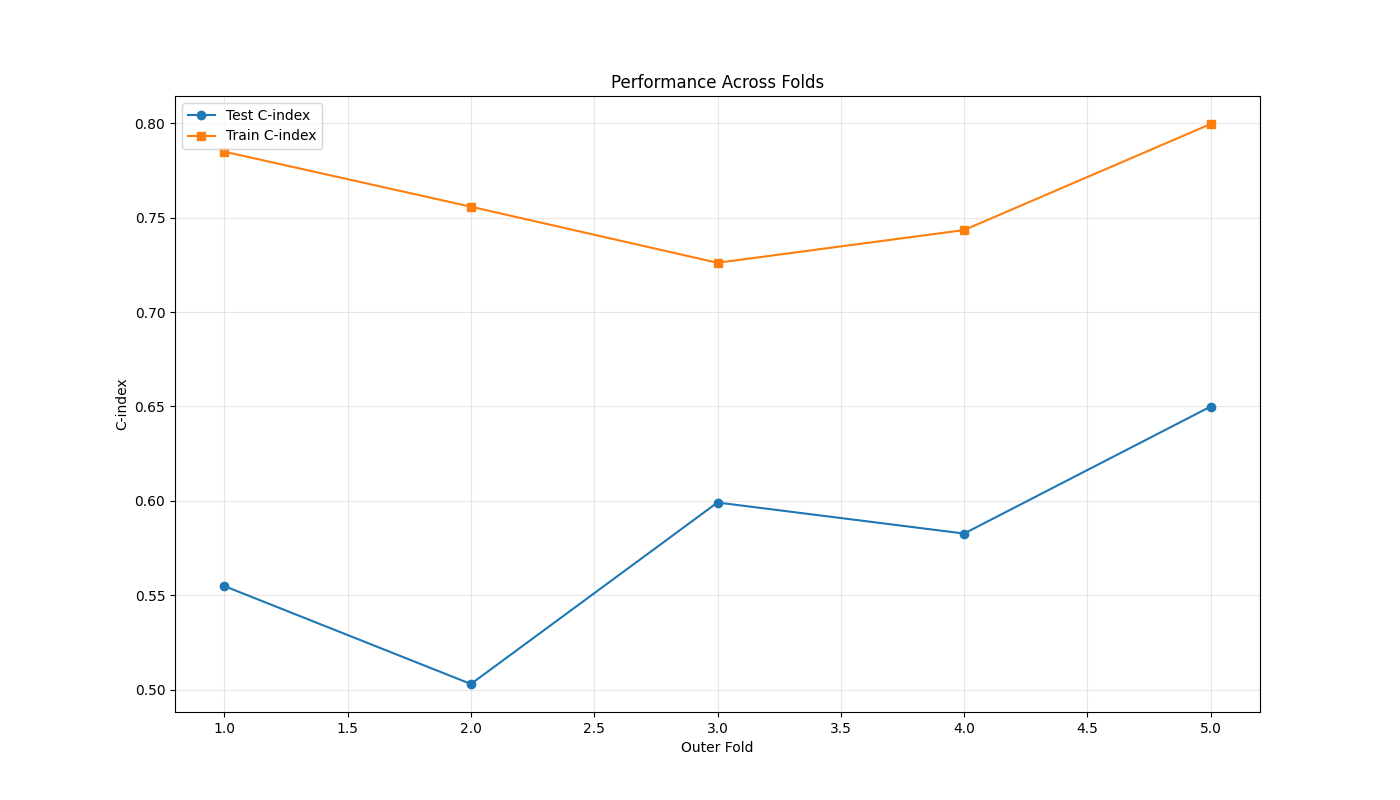
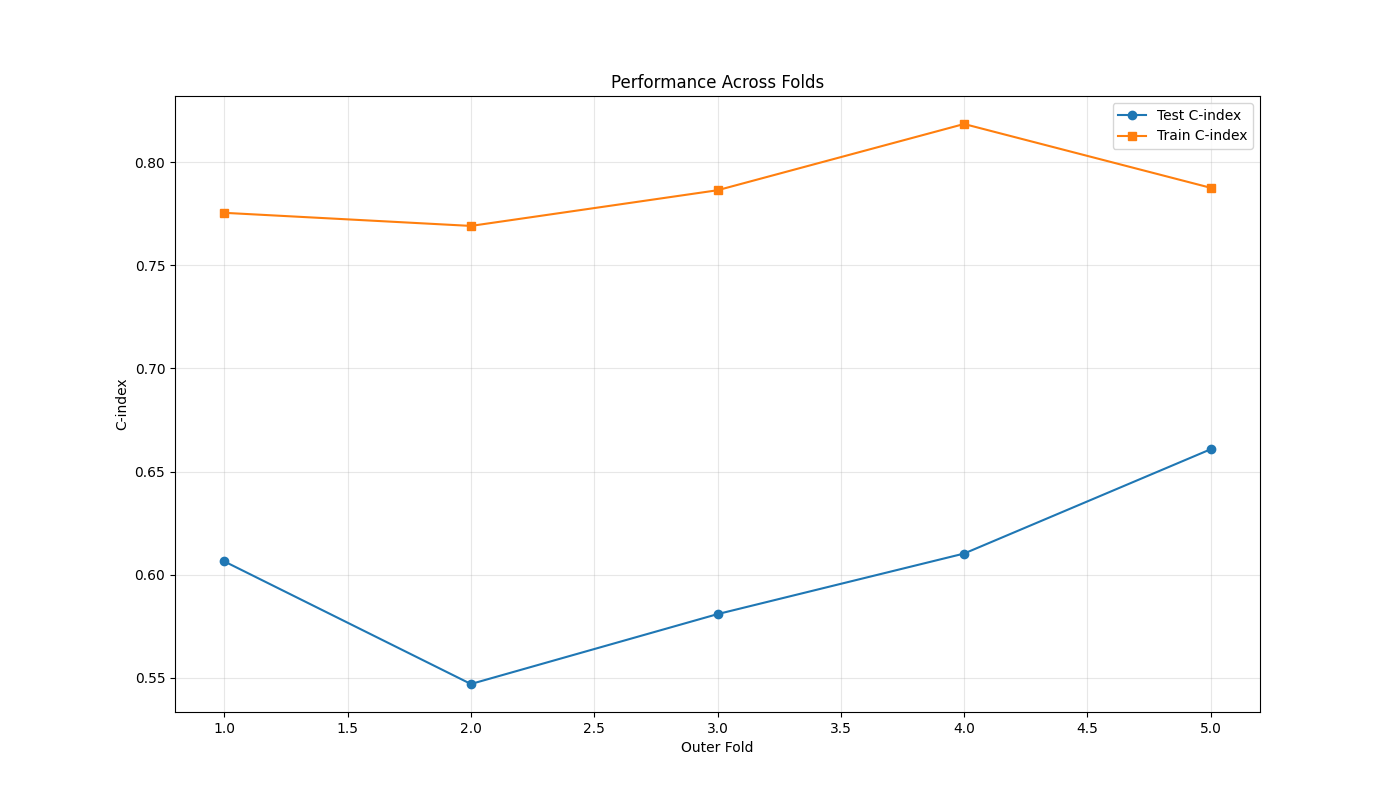
only positive imp features rsf

diff --git a/rsf/one-forest-affy.py b/rsf/one-forest-affy.py
@@ -76,17 +76,30 @@ y_valid = Surv.from_dataframe('OS_STATUS', 'OS_MONTHS', valid)
 X_train = train.drop(columns=['OS_STATUS', 'OS_MONTHS'])
 X_valid = valid.drop(columns=['OS_STATUS', 'OS_MONTHS'])
 
-# Make RSF 
+num_of_cov = 675
+
 # {'max_depth': 10, 'max_features': 500, 'min_samples_leaf': 60, 'n_estimators': 750}
 rsf = RandomSurvivalForest(
-    n_estimators=500,
-    max_depth=5,
+    n_estimators=750,
+    max_depth=3,
     min_samples_leaf=70,
-    max_features=0.2,
+    max_features=0.5,  # 0.5 * 13062 = 6531
     random_state=42,
     n_jobs=-1
 )
 
+
+"""
+num_of_cov = 675
+ n_estimators=750,
+    max_depth=3,
+    min_samples_leaf=70,
+    max_features=0.5,  # 0.5 * 13062 = 6531
+    random_state=42,
+    n_jobs=-1
+    
+Training C-index: 0.7970
+Validation C-index: 0.7119"""
 """
 n_estimators = 500
 max_depth = 5
@@ -140,6 +153,15 @@ param_grid = {
                 "max_depth": [2, 3, 4, 5],
             }"""
 
+# set covariates (Affy RS_rsf_all_fold_results_20250615.csv)
+# take the top 50 features from the pre-selection
+covariates = pd.read_csv("rsf/rsf_results_affy/Affy RS_rsf_preselection_importances_1SE.csv")
+covariates = covariates['Feature'].tolist()[:num_of_cov]  # Take top 50 features
+
+# Filter X_train and X_valid to only include the covariates
+X_train = X_train[covariates]
+X_valid = X_valid[covariates]
+
 # Fit the model
 print("Fitting Random Survival Forest model...")
 rsf.fit(X_train, y_train)
@@ -156,6 +178,9 @@ print(f"Validation C-index: {valid_c_index:.4f}")
 print("Loading test data from: affyTest.csv")
 test = pd.read_csv("affyTest.csv")
 test['Adjuvant Chemo'] = test['Adjuvant Chemo'].map({'ACT': 1, 'OBS': 0})
+
+# keep only the covariates used in training
+test = test[covariates + ['OS_STATUS', 'OS_MONTHS']]
 
 print(f"Number of events in test set: {test['OS_STATUS'].sum()} | Censored cases: {test.shape[0] - test['OS_STATUS'].sum()}")
 print("Test data shape:", test.shape)

diff --git a/rsf/rsf-featuressearch-affy.py b/rsf/rsf-featuressearch-affy.py
@@ -128,10 +128,10 @@ if __name__ == "__main__":
     
     # Define hyperparameter grid for RSF (modified for the Affy dataset)
     param_distributions = {
-        "n_estimators": [500, 625, 750, 875], # previously 1000
-        "min_samples_leaf": [50, 60, 65, 70, 80], # 90, 100
-        "max_features": ["sqrt", "log2", 500, 0.1],
-        "max_depth": [10],
+        "n_estimators": [500, 750],
+        "min_samples_leaf": [50, 60, 70],    
+        "max_features": [0.1, 0.2, 0.5], # 0.1 * 13062 = 1306
+        "max_depth": [3, 4, 5],
     }
     
     all_fold_metrics = []  # Initialize list to collect all fold-level metrics

diff --git a/rsf/rsf_results_affy/analyze.py b/rsf/rsf_results_affy/analyze.py
@@ -279,5 +279,5 @@ def analyze_rsf_hyperparameters(csv_file_path):
 
 if __name__ == "__main__":
     # Example usage with Affymetrix data
-    analyze_rsf_hyperparameters('rsf/rsf_results_affy/Affy RS_rsf_all_fold_results_20250403.csv')
+    analyze_rsf_hyperparameters('rsf/rsf_results_affy/Affy RS_rsf_all_fold_results_20250615.csv')
     print("\nAnalysis complete. Results saved to 'rsf/rsf_results_affy/rsf_analysis_results' directory.")
